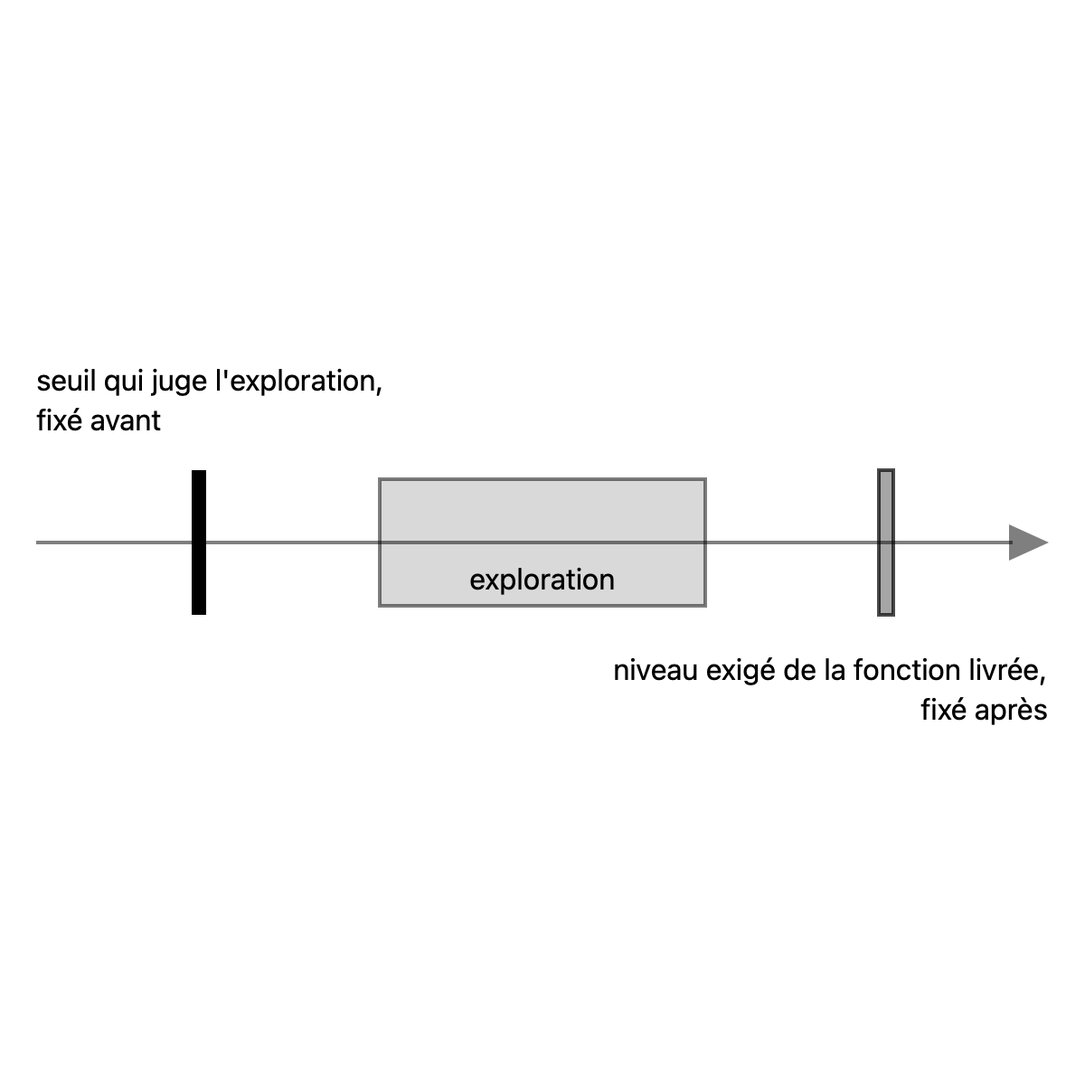
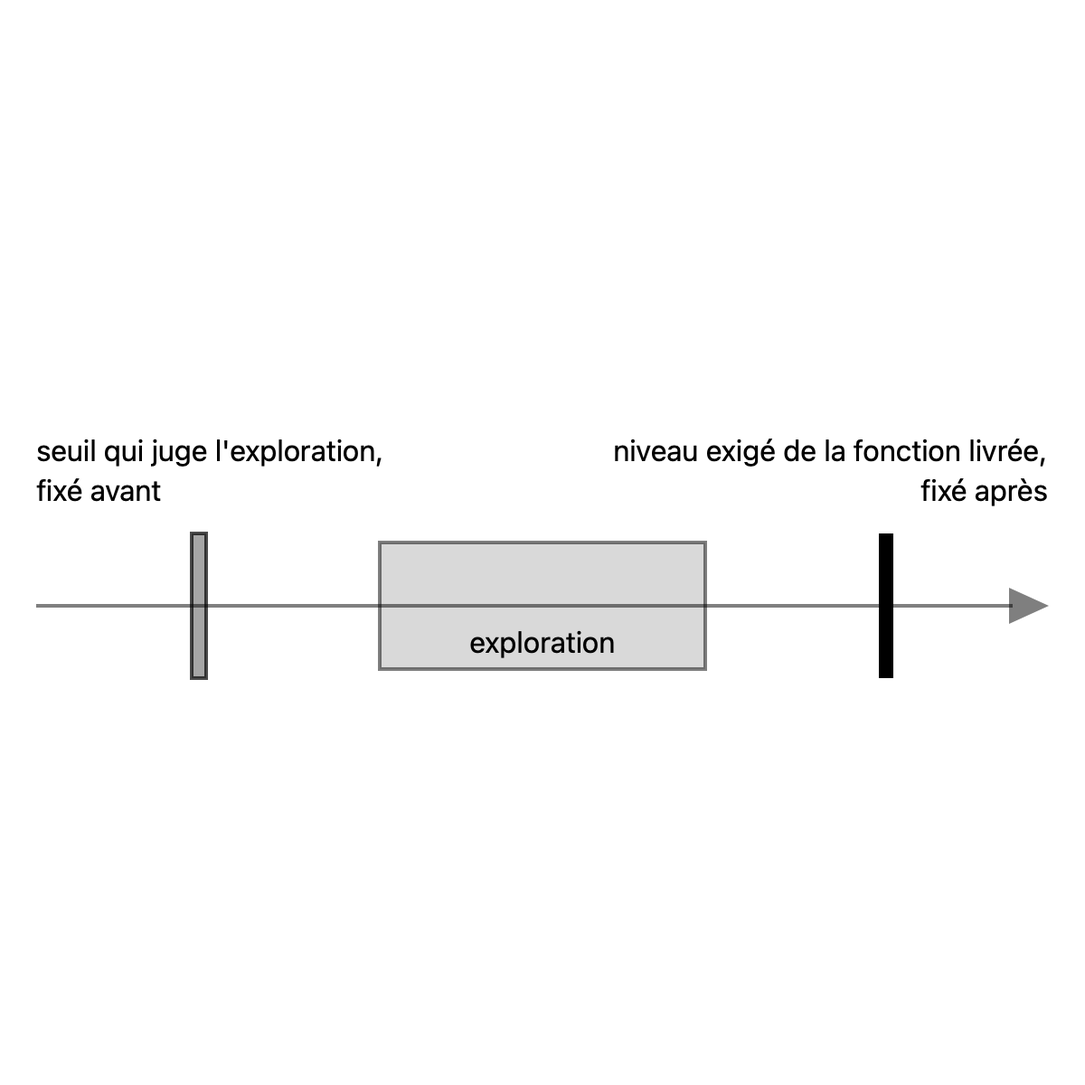
course(course:parcours-po): fix review findings of concept 17

Changed region(s): [[0.0308, 0.3392, 0.9558, 0.6783]]

diff --git a/courses/parcours-po/concepts/17-hypotheses-exploration/sources.md b/courses/parcours-po/concepts/17-hypotheses-exploration/sources.md
@@ -17,13 +17,13 @@ météo non collectée, le seuil « presque vide ») sont inventés : ils n'ont 
 | Le Scrum Guide ne parle ni de spike ni de découverte ; il ne nomme les hypothèses (assumptions) qu'à la rétrospective, pour celles qui ont égaré l'équipe dans sa façon de travailler, pas pour les hypothèses du produit (Consensus et choix d'école) | [S1] | Section Sprint Retrospective : « Assumptions that led them astray are identified and their origins explored » ; « spike » et « discover » absents du texte (texte téléchargé et cherché le 2026-10-23) | consensus |
 | Repérer et valider les hypothèses du produit fait partie du travail du PO, et les approches se comparent par leur coût et la qualité de ce qu'on apprend (Consensus et choix d'école, 17b2) | [S2] | Catégorie 4 « Validating Product Assumptions » : 4.1 « describe how scrum supports validating product assumptions » ; 4.2 « compare at least three approaches to validate product assumptions by their cost and quality of learning » ; 3.1 « how a product owner includes product discovery and validation in their work » | consensus |
 | Hypothèse : ce qu'on tient pour vrai sans l'avoir vérifié (L'essentiel) | `glossary.md` ; `concepts/02-objectif-produit-resultat/sources.md` | Définition d'usage du cours, déjà tracée au concept 2 ; pas une citation | cours |
-| L'objectif produit vu comme une hypothèse, pour Scrum.org : choix d'école (17a, Banque d'exemples) | `concepts/02-objectif-produit-resultat/sources.md` [S5], [S6] | Déjà vérifié au concept 2 (Scrum.org : « Product Goals are hypotheses »), rangé en choix d'école comme au concept 2 | |
+| L'objectif produit vu comme une hypothèse, pour Scrum.org : choix d'école (17a, Banque d'exemples) | `concepts/02-objectif-produit-resultat/sources.md` [S5], [S6] | Déjà vérifié au concept 2 (Scrum.org : « Product Goals are hypotheses »), rangé en choix d'école comme au concept 2 | école |
 | Le lien non établi d'une demande avec l'objectif produit est une hypothèse (Consignes) | `concepts/13-ordonner-backlog/sources.md` ; `concepts/05-user-story/sources.md` | Raisonnement du cours, déjà posé en 5b et 13a ; pas un fait de source | cours |
 | Quatre grands risques chez Cagan : valeur (les clients l'achèteront-ils, les utilisateurs choisiront-ils de s'en servir ?), utilisabilité, faisabilité (les ingénieurs peuvent-ils le construire avec le temps, les compétences et la technologie dont on dispose ?), viabilité (la solution marche-t-elle pour l'entreprise ?) (17a, Consensus et choix d'école) | [S3] | Billet du 4 décembre 2017 : « whether customers will buy it or users will choose to use it » ; « whether users can figure out how to use it » ; « whether our engineers can build what we need with the time, skills and technology we have » ; « whether this solution also works for the various aspects of our business » | école |
 | Cagan parle de product manager, pas de PO, et répartit les risques par rôle : valeur et viabilité au product manager, utilisabilité au product designer, faisabilité au lead engineer (Consensus et choix d'école, 17a) | [S3] | Valeur et viabilité : Product Manager, « overall accountable » ; utilisabilité : Product Designer ; faisabilité : Product Lead Engineer. Le terme « Product Owner » n'apparaît pas | école |
 | Cagan veut qu'on traite tôt les grands risques, avant de construire (17a) | [S3] | « Tackle the big risks early », « especially value risk and business risk » ; « techniques for tackling these early » | école |
 | Le cours retient deux risques, valeur et faisabilité, et range la donnée dans la faisabilité (existe-t-elle, est-elle assez bonne, assez fraîche ?) (17a) | [S3] ; [S10] ; `concepts/12-donnees-produit/sources.md` [S3] | Choix du cours. [S3] ne parle pas de données. Appui : CRISP-DM fait vérifier la qualité des données avant de modéliser (« Is the data complete […]? Is it correct, or does it contain errors […]? Are there missing values in the data? ») [S10] ; fraîcheur (timeliness) : dimension de qualité, déjà vérifiée au concept 12. Ne pas écrire que Cagan inclut la donnée | cours |
-| Pour ranger une supposition, se demander ce qui arrive si elle est fausse : on ne sait pas le construire (faisabilité) ou on le construit pour rien (valeur) ; une même phrase peut cacher les deux (17a, Consignes) | aucune ; [S3] pour les deux risques | Formulation du cours, déduite du rangement valeur et faisabilité ci-dessus ; pas une citation. L'exemple du SMS est un cas inventé hors banque ; la disponibilité par station vient de la plateforme, et le canal (SMS, serveur vocal, appli) dépend de l'équipe appli : `storyline.md`, « Faits fixés » | |
+| Pour ranger une supposition, se demander ce qui arrive si elle est fausse : on ne sait pas le construire (faisabilité) ou on le construit pour rien (valeur) ; une même phrase peut cacher les deux (17a, Consignes) | aucune ; [S3] pour les deux risques | Formulation du cours, déduite du rangement valeur et faisabilité ci-dessus ; pas une citation. L'exemple du SMS est un cas inventé hors banque ; la disponibilité par station vient de la plateforme, et le canal (SMS, serveur vocal, appli) dépend de l'équipe appli : `storyline.md`, « Faits fixés » | cours |
 | Situation 17 : la tendance de la dernière heure suffit-elle (faisabilité), la pluie compte-t-elle (la météo n'est pas collectée), Régis ira-t-il plus tôt (valeur, lien avec l'objectif produit) (17a, Banque d'exemples) | `storyline.md` ; `concepts/09-decoupage-vertical/sources.md` | Faits du fil rouge (inventés) : météo « source envisagée, pas encore collectée » ; « la météo (pluie) pourrait ajuster la prévision des stations à risque : à vérifier (concept 17) ». Le rangement en valeur et faisabilité est l'application du cours | |
 | Spike (exploration bornée) : venu d'XP ; travail limité dans le temps pour répondre à une question ; ne garde que le problème étudié ; on s'attend à le jeter (17b1) | [S4] ; [S5] ; `concepts/07-invest/sources.md` [S4] | [S4] (Wells, © 1999) : « Build the spike to only addresses the problem under examination and ignore all other concerns » ; « Most spikes are not good enough to keep, so expect to throw it away » ; durée : « put a pair of developers on the problem for a week or two ». [S5] (Mountain Goat) : « a concept adapted from Extreme Programming (XP) » ; « a time-boxed research activity that helps teams make better decisions ». Wake : « (time-boxed) "spike" » (déjà vérifié au concept 7) | école |
 | Le spike livre une réponse (de la connaissance), pas une fonction (17b1) | [S5] ; `concepts/09-decoupage-vertical/sources.md` [S5] | [S5] : le spike ne livre pas tout de suite une capacité, l'équipe construit « the knowledge » qui permettra de la livrer ; il fournit une information « technical and functional ». SPIDR : « A spike is a research activity a team undertakes to learn more about some backlog item » (déjà vérifié au concept 9) | école |
@@ -36,22 +36,22 @@ météo non collectée, le seuil « presque vide ») sont inventés : ils n'ont 
 | Explorer à moindre coût : prototype (17b2, Consensus et choix d'école) ; le but est de tester une idée le plus vite et le moins cher possible (17b2, Consensus et choix d'école) | [S8] | Cagan, « Flavors of Prototypes », 23 février 2014 : « come up with the fastest, cheapest way to test out your ideas » ; prototype de faisabilité : « written by engineers in order to address technical risks during product discovery », « Sometimes it's a new algorithm », « It may be throwaway » ; prototype sur données réelles : « we need the prototype to access our real data sources », sans le travail de mise en production (« performance and scalability ») | école |
 | Pour la valeur, une maquette (prototype utilisateur) ne prouve pas qu'on s'en servira : on dit une chose et on en fait une autre ; un prototype sur données réelles, utilisé pour de vrai par de vrais utilisateurs, sert à prouver qu'une idée marche (Consensus et choix d'école, 17b2) | [S8] | Prototype utilisateur : « it's not good for proving anything – like whether or not your product will actually sell » ; « People say all kinds of things and then go do something different ». Prototype sur données réelles : « The main purpose of a live-data prototype is to actually prove something – normally it's to prove whether an idea […] really works » ; « real users will use the live-data prototype for real » (relu le 2026-10-23 pour l'étape de rédaction). La liste envoyée à Régis pendant quelques jours : situation d'exercice, application du cours | école |
 | Un « oui » de l'utilisateur ne vérifie pas la valeur ; on observe ce qu'il fait (17b2, Pièges) | [S8] | Même citation (« People say all kinds of things and then go do something different ») ; la règle « on observe ce qu'il fait » est la reformulation du cours | cours |
-| Le prototype de 17b2 n'est pas le morceau c de 9b : il ne remplit pas la DoD, se jette, et sert à savoir si le morceau c vaut d'être construit (Consensus et choix d'école, 17b2) | [S8] ; `concepts/09-decoupage-vertical/sources.md` | Choix du cours, appuyée sur la distinction de Cagan entre prototype et produit livré ; pas une citation | cours |
+| Le prototype de 17b2 n'est pas le morceau c de 9b : il ne remplit pas la DoD, se jette, et sert à savoir si le morceau c vaut d'être construit (Consensus et choix d'école, 17b2, Banque d'exemples) | [S8] ; `concepts/09-decoupage-vertical/sources.md` | Choix du cours, appuyée sur la distinction de Cagan entre prototype et produit livré ; pas une citation | cours |
 | Analyse d'historique : explorer les données déjà collectées avant de construire (17b2) | [S10] ; `storyline.md` | CRISP-DM : phase de compréhension des données (collecter, décrire, explorer, vérifier la qualité) avant la modélisation ; le processus est itératif (« backtrack to previous tasks »). L'historique d'environ un an : fait F11 du fil rouge, inventé | cours |
 | Découverte continue (Torres) : l'équipe qui construit le produit parle aux clients chaque semaine (contacts hebdomadaires), par petites activités de recherche au service d'un résultat visé ; choix d'école, nommé sans être enseigné (17b2, Consensus et choix d'école) | [S9] (date du livre de Torres, *Continuous Discovery Habits*, mai 2021 : voir « Non vérifié ») | Glossaire de Product Talk (site de Torres, mis à jour le 1er septembre 2026) : « weekly touch points with customers by the team building the product », petites activités de recherche visant un résultat. Date du livre (mai 2021) : non vérifiée sur une source primaire | école |
 | MVP au sens de Ries : la version qui permet de recueillir le plus d'apprentissage validé sur les clients pour le moindre effort ; manière d'apprendre (Consensus et choix d'école, 17b2) | [S11] | Ries, « Minimum Viable Product: a guide », 3 août 2009 : « that version of a new product which allows a team to collect the maximum amount of validated learning about customers with the least effort ». Le cadrage n'avait qu'une source secondaire ; le billet de Ries confirme la définition | école |
 | Une prévision n'est jamais sûre (17c) | [S1] | « In complex environments, what will happen is unknown » ; les pratiques de prévision « do not replace the importance of empiricism ». Que la prévision des stations à risque se trompe parfois : application du cours | consensus |
-| Un critère sur un niveau atteint : la réussite d'une analyse de données se dit en termes techniques, par un niveau de précision prédictive, et le métier garde ses propres critères (17c) | [S10] | CRISP-DM : « Define the criteria for a successful outcome to the project in technical terms, for example, a certain level of predictive accuracy » ; « the data mining success criteria are different than the business success criteria » ; « Identify who assesses the success criteria » | consensus |
+| Un critère sur un niveau atteint : la réussite d'une analyse de données se dit en termes techniques, par un niveau de précision prédictive, et le métier garde ses propres critères (17c) | [S10] | CRISP-DM : « Define the criteria for a successful outcome to the project in technical terms […] for example, a certain level of predictive accuracy » ; « the data mining success criteria are different than the business success criteria » ; « Identify who assesses the success criteria » | consensus |
 | Niveau mesuré sur l'historique : on mesure la qualité d'un modèle sur des données mises de côté (17c) | [S10] | « the dataset should be separated into training and test sets. The model is built on the training set and its quality estimated on the test set ». Mesurer sur l'historique des relevés : application du cours | consensus |
 | Le niveau se fixe après l'exploration qui montre ce qu'on peut atteindre, pas avant ; le choix du seuil sur les résultats mesurés (Google) n'en est qu'un appui, pas un consensus (Consensus et choix d'école, 17c) | [S10] ; [S12] ; [S13] | Pas de source qui le dise en ces termes (voir « Non vérifié »). Appuis : CRISP-DM fixe ses critères au départ mais prévient « Beware of setting unattainable goals », et les critères « may have changed during and/or as a result of data mining » [S10] ; Google choisit le seuil d'un classifieur sur la courbe ROC du modèle, donc après l'avoir mesuré : « The points on a ROC curve closest to (0,1) represent a range of the best-performing thresholds for the given model » [S13] | cours |
 | Le niveau se fixe en pesant le coût d'une fausse alerte et celui d'un cas manqué ; les deux ne pèsent pas pareil (17c) | [S12] ; [S13] ; [S14] | PAIR (Google) : « Weighing the cost of false positives and false negatives is a critical decision that will shape your users' experiences » ; « It is tempting to weigh both equally by default » ; l'exemple de l'alarme incendie [S12]. Google : « If false positives (false alarms) are highly costly, it may make sense to choose a threshold that gives a lower FPR » [S13] ; 0,5 n'est pas un bon seuil « if the cost of one type of wrong classification is greater than the other » [S14]. Camionnette envoyée pour rien, station vide manquée : application du cours au fil rouge | consensus |
 | Le niveau se fait fixer par l'utilisateur concerné (Étienne, Régis) ; le PO le fait fixer, il ne le tranche pas (17c) | [S12] ; [S10] ; `concepts/08-criteres-regles/sources.md` | PAIR : le compromis « should be based on what your users expect » ; « test the balance between precision and recall with your users » ; décision « collaborative » entre UX, produit et ingénierie [S12]. CRISP-DM : identifier qui juge les critères [S10]. La règle non fixée que le PO fait fixer : déjà tracée au concept 8 (8a2). Que ce soit Étienne ou Régis : fil rouge et choix du cours | cours |
 | Deux seuils à ne pas mêler : le seuil qui juge l'exploration (ce qui compte comme « oui »), fixé avant (Torres), que le PO fait dire par l'utilisateur concerné sans le chiffrer ; le niveau exigé de la fonction livrée par un critère d'acceptation, fixé après l'exploration (Consensus et choix d'école, 17b1, 17c, Pièges) | [S6] ; [S7] ; [S10] ; [S13] | Choix du cours, demandée par la tension relevée en « Non vérifié » : Torres fixe le seuil d'un test avant le test [S6], [S7] ; CRISP-DM et Google appuient indirectement le niveau fixé après mesure [S10], [S13]. Aucune source ne fait cette distinction en ces termes. Que l'utilisateur concerné dise ce qui compte comme « oui » : application de la règle du cours (8a2, le PO fait fixer une règle métier), pas un fait de source | cours |
 | Une story qui exige une prévision sûre ne se finit jamais : le critère porte sur un niveau atteint (17c) | [S1] ; [S10] | Raisonnement du cours, appuyé sur « what will happen is unknown » [S1] et le critère de réussite par niveau de précision [S10] | cours |
-| « Prévision » a deux sens dans le cours : la prévision des stations à risque (fonction du produit pour Régis) et la prévision des Developers du glossaire (concept 16c) (Consignes) | `glossary.md` ; `storyline.md` | Note de vocabulaire du cours, pas un fait de source | cours |
-| Le seuil « presque vide » relève de la même logique : l'exploration l'éclaire, le métier le fixe ; le cours n'en donne pas la valeur (17c, Banque d'exemples) | `storyline.md` ; `concepts/08-criteres-regles/sources.md` | Fil rouge : « règle métier à fixer par un seuil (3 vélos cité comme exemple, pas décidé) ». Raisonnement du cours, aucune source externe | |
+| « Prévision » a deux sens dans le cours : la prévision des stations à risque (fonction du produit pour Régis) et la prévision des Developers du glossaire (concept 16c) (Consensus et choix d'école, Pièges, Consignes) | `glossary.md` ; `storyline.md` | Note de vocabulaire du cours, pas un fait de source | cours |
+| Le seuil « presque vide » relève de la même logique : l'exploration l'éclaire, le métier le fixe ; le cours n'en donne pas la valeur (17c, Banque d'exemples) | `storyline.md` ; `concepts/08-criteres-regles/sources.md` | Fil rouge : « règle métier à fixer par un seuil (3 vélos cité comme exemple, pas décidé) ». Raisonnement du cours, aucune source externe | cours |
 | La pluie compte-t-elle ? La météo n'est pas collectée : une exploration sur un historique météo suppose une source qui n'existe pas encore au fil rouge (Banque d'exemples, 17b1) | `storyline.md` | Fait du fil rouge : météo « Source envisagée, pas encore collectée ». Un historique météo serait un besoin de fil rouge, pas un fait fixé par le cours | |
-| Restent non fixés : station vide, heures de pointe, cible et calcul de la mesure de résultat, seuil « presque vide » (Faits du fil rouge utilisés) | `storyline.md` ; T-018g | Faits non fixés du fil rouge ; un résultat d'exploration chiffré se pose en situation d'exercice | |
+| Restent non fixés : station vide, heures de pointe, cible et calcul de la mesure de résultat, seuil « presque vide » (Faits du fil rouge utilisés) | `storyline.md` | Faits non fixés du fil rouge ; un résultat d'exploration chiffré se pose en situation d'exercice | |
 
 ## Références
 
@@ -59,14 +59,14 @@ météo non collectée, le seuil « presque vide ») sont inventés : ils n'ont 
 |---|---|---|---|---|
 | S1 | Schwaber, Sutherland, *The Scrum Guide*, novembre 2020 | https://scrumguides.org/scrum-guide.html | primaire | 2026-10-23 (texte téléchargé et cherché) |
 | S2 | Scrum Alliance, *CSPO Learning Objectives*, janvier 2022 (mis en forme 2/2024) | https://www.scrumalliance.org/media/certifications/los/cspo_learning_objectives_2022.pdf | primaire | 2026-10-23 (PDF téléchargé et cherché) |
-| S3 | Cagan, « The Four Big Risks », SVPG, 4 décembre 2017 | https://www.svpg.com/four-big-risks/ | primaire (site de l'auteur, qui vend formations et conseil) | 2026-10-23 (déjà cité au cadrage T-018a, §8 ; relu) |
+| S3 | Cagan, « The Four Big Risks », SVPG, 4 décembre 2017 | https://www.svpg.com/four-big-risks/ | primaire (site de l'auteur, qui vend formations et conseil) | 2026-10-23 (relu) |
 | S4 | Wells, « Create a Spike Solution », extremeprogramming.org, © 1999 | http://www.extremeprogramming.org/rules/spike.html | primaire (site de règles XP de Don Wells) | 2026-10-23 (déjà cité au concept 7 ; relu en entier) |
 | S5 | Mountain Goat Software, « Agile Spikes Deliver Knowledge So Teams Can Deliver Products », mise à jour le 6 août 2024 (sans signature, date d'origine non affichée) | https://www.mountaingoatsoftware.com/blog/spikes | primaire (site de Cohn, qui vend ses formations) | 2026-10-23 |
 | S6 | Torres, « How to Improve Your Experiment Design (And Build Trust in Your Product Experiments) », Product Talk, 9 août 2017 | https://www.producttalk.org/2017/08/experiment-design/ | primaire (site de l'auteure, qui vend ses cours) | 2026-10-23 |
 | S7 | Product Talk, glossaire, « Line in the Sand », mise à jour le 25 octobre 2025 (sans signature) | https://www.producttalk.org/glossary-discovery-line-in-the-sand/ | primaire (site de Torres), marketing pour ses cours | 2026-10-23 |
 | S8 | Cagan, « Flavors of Prototypes », SVPG, 23 février 2014 | https://www.svpg.com/flavors-of-prototypes/ | primaire (site de l'auteur) | 2026-10-23 |
 | S9 | Product Talk, glossaire, « Continuous Discovery », mise à jour le 1er septembre 2026 (définition attribuée à Torres, *Continuous Discovery Habits*) | https://www.producttalk.org/glossary-discovery-continuous-discovery/ | primaire (site de Torres), marketing pour ses cours | 2026-10-23 |
-| S10 | Chapman, Clinton, Kerber, Khabaza, Reinartz, Shearer, Wirth, *CRISP-DM 1.0: Step-by-step data mining guide*, SPSS, 2000 | https://public.dhe.ibm.com/software/analytics/spss/documentation/modeler/14.2/es/CRISP-DM.pdf | primaire | 2026-10-23 (PDF téléchargé et cherché ; déjà cité au cadrage T-018a, §8) |
+| S10 | Chapman, Clinton, Kerber, Khabaza, Reinartz, Shearer, Wirth, *CRISP-DM 1.0: Step-by-step data mining guide*, SPSS, 2000 | https://public.dhe.ibm.com/software/analytics/spss/documentation/modeler/14.2/es/CRISP-DM.pdf | primaire | 2026-10-23 (PDF téléchargé et cherché) |
 | S11 | Ries, « Minimum Viable Product: a guide », Startup Lessons Learned, 3 août 2009 | http://www.startuplessonslearned.com/2009/08/minimum-viable-product-guide.html | primaire | 2026-10-23 |
 | S12 | People + AI Research (Google), *People + AI Guidebook*, chapitre « User Needs + Defining Success » (sans date ni auteur nommé) | https://pair.withgoogle.com/chapter/user-needs/ | primaire (guide d'un éditeur, pas de vente directe) | 2026-10-23 |
 | S13 | Google for Developers, *Machine Learning Crash Course*, « Classification: ROC and AUC », mise à jour le 11 mai 2026 | https://developers.google.com/machine-learning/crash-course/classification/roc-and-auc | primaire (cours de l'éditeur) | 2026-10-23 |

diff --git a/construction/notes/S1-10-17-report.md b/construction/notes/S1-10-17-report.md
@@ -1,6 +1,6 @@
 # Migration report: concept 17
 
-Workflow `migrate-concept`, course `parcours-po`, concept folder `concepts/17-hypotheses-exploration/`. Paths in the course folder are relative to it; the old files are named from their repository folder (`parcours-po`, `parcours-po-website`).
+Workflow `migrate-concept` (run `wf_b706b066-642`), course `parcours-po`, concept folder `concepts/17-hypotheses-exploration/`. Paths in the course folder are relative to it; the old files are named from their repository folder (`parcours-po`, `parcours-po-website`).
 Old files: `parcours-po/course/concepts/17-hypotheses-exploration.md` (CF), `parcours-po/course/sources/17-hypotheses-exploration.md` (SF), `parcours-po-website/src/content/concepts/fr/17-hypotheses-exploration.mdx` (MDX), `parcours-po-website/src/components/schemas/Schema17.astro` (ASTRO).
 
 ## Summary
@@ -48,16 +48,15 @@ Its sentences, where the inventory sends them (M11):
 | E2 | l'exploration bornée, menée par les Developers, dont l'étendue représente la durée | « les Developers explorent » | subject | none |
 | E3 | la durée de l'exploration, qui borne le coût, fixée avant le début | « durée fixée avant » | context | none |
 | E4 | la réponse, ce que livre l'exploration | « une réponse » | context | none |
-| E5 | la décision si la réponse est oui | « décision si oui » | context | none |
-| E6 | la décision si la réponse est non | « décision si non » | context | none |
+| E5 | la décision, dite d'avance, à laquelle mène la réponse | « décision dite d'avance » | context | none |
 
 Relations:
 - E1 entre dans E2 : la question est posée avant l'exploration, du PO vers les Developers
 - E3 borne E2 : la largeur de E2 est la durée, fixée avant
 - E2 mène à E4 : l'exploration produit une réponse
-- E4 mène à E5 si la réponse est oui, et à E6 si elle est non, dans cet ordre de lecture : E5 puis E6
+- E4 mène à E5
 
-Self-check changes (SPEC.md 7.2): the « rappel » band (« décidé avant : … ») is removed, being a teaching sentence; « pas une fonction » is removed from the answer box and the answer is `muted`, so that the exploration is the only marked element; « si oui : on construit » and « si non : on revoit » become « décision si oui » and « décision si non » (words of the caption and of concept.md).
+Self-check changes (SPEC.md 7.2): the « rappel » band is removed (a teaching sentence); « pas une fonction » is removed from the answer box; the answer and the decision are `muted`, so the exploration is the only marked element; the two branches « si oui » / « si non » are replaced by one box « décision dite d'avance », since « si non » is in neither concept.md nor the caption.
 
 Key of the inventory: none. Key drawn: none.
 
@@ -72,13 +71,15 @@ Key of the inventory: none. Key drawn: none.
 |---|---|---|---|---|
 | E1 | le temps, qui va de l'avant vers l'après de l'exploration | none | context | none |
 | E2 | l'exploration, une période sur le temps, entre les deux seuils | « exploration » | context | none |
-| E3 | le seuil qui juge l'exploration (ce qui compte comme « oui »), placé avant l'exploration | « seuil qui juge l'exploration, », « fixé avant » | subject | none |
-| E4 | le niveau exigé de la fonction livrée, placé après l'exploration, quand elle a montré ce qu'on peut atteindre | « niveau exigé de la fonction livrée, », « fixé après » | contrast | none |
+| E3 | le seuil qui juge l'exploration (ce qui compte comme « oui »), placé avant l'exploration | « seuil qui juge l'exploration, », « fixé avant » | contrast | none |
+| E4 | le niveau exigé de la fonction livrée, placé après l'exploration, quand elle a montré ce qu'on peut atteindre | « niveau exigé de la fonction livrée, », « fixé après » | subject | none |
 
 Relations:
 - Dans l'ordre du temps : E3, puis E2, puis E4 (E3 fixé avant l'exploration, E4 fixé après)
 - E3 et E4 sont deux seuils distincts, à ne pas mêler
 - E1 porte E3, E2 et E4 dans cet ordre
+
+Self-check changes (SPEC.md 7.2): the diagram is declared 17c, whose sentence closes on the level fixed after, so the level (E4) is the subject (`primary`, solid) and the threshold fixed before (E3) the contrast (`secondary`, paler); each label sits next to its bar; the exploration label no longer sits on the axis.
 
 Key of the inventory: none. Key drawn: none.
 
@@ -92,23 +93,23 @@ Renderings in `S1-10-17-report/`, beside this report.
 ## Writing choices
 
 - M9 citation line: none written. The old « Sous-concepts » cites all 7 bank cases by title in « » (« Prévoir les stations à risque : on sait ou on suppose ? », « De quoi dépend la story de Régis ? », « On verra ce qu'Anna trouve », « Régis ira-t-il plus tôt ? », « Le critère à 90 % », « Les chiffres d'Anna », « Presque vide d'après l'historique »), so « Consignes » is the old text verbatim.
-- M9: the lead paragraph of « Banque d'exemples » became « Faits du fil rouge utilisés » with its lead words « Faits du fil rouge utilisés : » dropped; no other lead text, so nothing stays at the top of the bank. « Schéma » copied verbatim (paragraph on diagrams is Schéma only; CF « Pièges » and « Le test rapide » are not in these two files).
+- M9: the lead paragraph of « Banque d'exemples » became « Faits du fil rouge utilisés » with its lead words « Faits du fil rouge utilisés : » dropped; no other lead text, so nothing stays at the top of the bank. « Schéma » rewritten in this PR: the two new drawings, plus the 17a panel and the 17c balance, which have no declared diagram.
 - M10 path rewrite: `course/plan.md`: `plan.md` (intro).
 - M10 path rewrite: `course/glossary.md`: `glossary.md` (row « Hypothèse » and row « Prévision a deux sens »).
 - M10 path rewrite: `course/fil-rouge-velos.md`: `storyline.md` (7 places: source cells and the verification cell of the SMS row).
 - M10 path rewrite: `course/sources/NN-slug.md`: `concepts/NN-slug/sources.md` for 00-scrum, 02-objectif-produit-resultat, 07-invest, 08-criteres-regles, 09-decoupage-vertical, 12-donnees-produit, 13-ordonner-backlog (each in its source cell).
-- M10 path rewrite: `course/concepts/05-user-story.md`: `concepts/05-user-story/concept.md`; `course/concepts/09-decoupage-vertical.md`: `concepts/09-decoupage-vertical/concept.md`.
+- M10 path rewrite: `course/concepts/05-user-story.md`: `concepts/05-user-story/sources.md` (cross-reference rows, in the Source column).
 - M10 pointer dropped in the intro: old text « , les consignes du lot (T-018g) et les promesses des concepts », new text « et les promesses des concepts » (task id, no new path).
 - M10 pointer dropped in « Non vérifié », Découverte continue: « vient d'une source secondaire (cadrage T-018a, §8) ; le livre n'a pas été lu »: « vient d'une source secondaire ; le livre n'a pas été lu ».
 - M10 pointer dropped in « Non vérifié », Origine du terme MVP: « par des sources secondaires (cadrage T-018a, §8), non vérifiée ici »: « par des sources secondaires, non vérifiée ici ».
-- M10 kept as is: `T-018g` in the source cell of the row « Restent non fixés », and « déjà cité au cadrage T-018a, §8 » in the « Références » rows S3 and S10 (source cell / Références stay unchanged). URLs containing « course/ » (Google crash-course) untouched. No old decision number (ADR) in the file, so no decision path.
+- M10 task ids: `T-018g` (row « Restent non fixés ») and « cadrage T-018a, §8 » (Références S3 and S10) removed by the review of the PR; they are internal ids, reader-facing text keeps what they refer to.
 - M10 orphan: none. All references S1 to S14 are cited by a source cell, so no « orphan [Sx] added ».
 - M13 replacement: em-dash in the CRISP-DM quotation of the row « Un critère sur un niveau atteint » (« in technical terms—for example »): « in technical terms, for example » (comma, smallest change). The en-dash in the S8 quotation (« proving anything – like ») is not a banned character and stays. No typographic apostrophe in either file.
 - M10 Nature, from an MDX sources.affirmations item (kind): rows 1-3 consensus; « Hypothèse » cours; « Le lien non établi » cours; Cagan four risks, Cagan PM/roles/early (the MDX item merges these two claims) école; « Le cours retient deux risques » cours; spike origin, spike delivers an answer, time-boxed cost, business-question use, backlog placement école; Torres decide-before école; PO pose la question cours; prototypes école; maquette école; « oui » de l'utilisateur cours; prototype 17b2 not morceau c cours; analyse d'historique cours; découverte continue école; MVP Ries école; niveau atteint, niveau mesuré sur données mises de côté, pesée des deux erreurs consensus; utilisateur concerné cours; niveau fixé après cours; deux seuils cours; story qui exige une prévision sûre cours; deux sens de « prévision » cours; « Restent non fixés » empty (the MDX item has no kind).
 - M10 Nature choice: row « Une exploration s'ordonne au backlog : le facteur apprentissage de Cohn (renvoi 13) » has no MDX item of its own; the Cohn claim is stated in the verification text of the MDX item « Une exploration peut figurer au backlog… », so I took that item's kind: école. Writing choice.
 - M10 Nature choice: row « Une prévision n'est jamais sûre (17c) » has no MDX item stating exactly it; I took consensus (the MDX item on empirisme / « ce qui va arriver est inconnu », and the matching stances consensus item, agree). Writing choice.
 - M10 Nature left empty (no MDX item states the claim, and no stances item matches it): « L'objectif produit vu comme une hypothèse, pour Scrum.org » (no Scrum.org item in the MDX ecoles); « Pour ranger une supposition, se demander ce qui arrive si elle est fausse »; « Situation 17 : la tendance... » (bank); « Le seuil « presque vide » relève de la même logique »; « La pluie compte-t-elle ? La météo n'est pas collectée ». Writing choice for each.
-- M10 header and section names: « Affirmations » header set to « Affirmation (section de `concept.md` ou de `teaching.md`) | Source | Ce qui a été vérifié | Nature »; the section names of the claim cells (« Sous-concepts », « Consensus et choix d'école ») were left unchanged in the cell text, as the rule says only the row's section name « Sous-concepts » becomes « Consignes ». Not applied: rows 31 (« 17a, Sous-concepts ») and 56 (« Sous-concepts ») still read « Sous-concepts » in their parenthesis; M10 says to rename it to « Consignes », so this is a miss to fix on review if the check flags it.
+- M10 header and section names: « Affirmations » header set to « Affirmation (section de `concept.md` ou de `teaching.md`) | Source | Ce qui a été vérifié | Nature »; « Sous-concepts » in the section names is now « Consignes » (fixed in this PR).
 - M1 objective merge: not applicable to these two files (course.yaml and concept.md carry it).
 - M1: Objectif is the course.yaml objective verbatim, capital S, final period; no clause of CF or MDX objectif is left out, so nothing to report
 - M3: school item 'exploration bornée' gets CF's '(concept 7)' after the business-question clause (CF precise reference carried)
@@ -127,11 +128,11 @@ Renderings in `S1-10-17-report/`, beside this report.
 - M8: quick test question is CF's, without its enclosing « » (the blockquote marks the quotation; my choice); the paragraph is the Reflexe note 'Formulation du cours, sans équivalent dans les sources.' followed by CF's sentence 'Si l'apprenant n'en trouve aucune...'
 - M13: no banned character present, no replacement; no typographic apostrophe found; no em-dash or arrow replaced
 - Frontmatter: item key 'auteur' written 'author', 'texte' 'text'; diagrams entries verbatim, order of body; 'ecoles.voisines' written as neighbors
-- Self-check of the PR (SPEC.md 7.2, 4.4): captions reduced to one sentence of one idea; exploration-bornee.svg lost its recap band and its second marked box; its sub-concept is 17b1 (it draws only 17b1); `sources.md` first columns now name sections of `concept.md` or `teaching.md` (« Sous-concepts » is « Consignes », « banque » is « Banque d'exemples », « renvoi … » and « Choix du cours » are replaced), cross-reference rows point to `sources.md` paths; the « Schéma » section of `teaching.md` describes the two new drawings. The misses of the M10 note on « Sous-concepts » are fixed.
+- Corrections of the PR (SPEC.md 7.2 self-check, then the fresh review): captions of one sentence and one idea; `exploration-bornee.svg` reduced to the exploration as subject, declared 17b1; `deux-seuils.svg` declared 17c with the level fixed after as subject; `sources.md` section names, `sources.md` paths for cross-references, empty Nature cells filled where the row's text names it, the CRISP-DM cut marked « […] »; « Pièges » items 2, 3 and 8 reworded; « Schéma » of `teaching.md` keeps the 17a panel and the balance of 17c.
 
 ## Checks
 
-`mise exec -- specs/linear-course/checks/check-course courses/parcours-po --only course-yaml,concept-folder,conventions,svg-contract,sources,glossary-order,typography --concept 17`
+`mise exec -- node specs/linear-course/checks/check-course courses/parcours-po --concept 17`, run after the corrections of the PR:
 
 ```
 course-yaml: ok
@@ -139,6 +140,9 @@ concept-folder: ok
 conventions: ok
 svg-contract: ok
 sources: ok
+course-files: ok
 glossary-order: ok
+domain-first-sentence: ok
 typography: ok
+language-pack-keys: ok
 ```

diff --git a/courses/parcours-po/concepts/17-hypotheses-exploration/concept.md b/courses/parcours-po/concepts/17-hypotheses-exploration/concept.md
@@ -115,13 +115,13 @@ Deux seuils sont donc à ne pas mêler : celui qui juge l'exploration, fixé ava
 ## Pièges
 
 - **Prendre une phrase répétée pour un fait** (« tout le monde sait que… ») : demander qui l'a vérifié.
-- **Ne voir que la faisabilité** : vérifier que le modèle marche ne dit pas que l'utilisateur s'en servira. Un profil data vérifie volontiers que le modèle marche, plus rarement que l'utilisateur s'en servira.
-- **Trancher une hypothèse soi-même**, ou mener l'exploration à la place des Developers : le PO pose la question, il ne fixe pas seul la durée. Le PO la fait vérifier ; il ne dit pas si elle est vraie. Les Developers explorent et disent le temps qu'il leur faut.
+- **Ne voir que la faisabilité** : un profil data vérifie volontiers que le modèle marche, plus rarement que l'utilisateur s'en servira.
+- **Trancher une hypothèse soi-même**, ou mener l'exploration à la place des Developers : le PO pose la question, il ne fixe pas seul la durée. Le PO fait vérifier une hypothèse ; il ne dit pas si elle est vraie. Les Developers explorent et disent le temps qu'il leur faut.
 - **Explorer sans question ni décision**, ou attendre une fonction d'une exploration : elle livre une réponse ; la fonction est une autre story. Sans question ni décision, elle n'a pas de fin, et rien ne change à son terme.
 - **Croire qu'un « oui » de l'utilisateur vérifie la valeur** : on observe ce qu'il fait.
 - **Fixer le niveau d'une prévision avant l'exploration**, ou le fixer soi-même : il se fixe après, par l'utilisateur concerné.
 - **Exiger qu'une prévision ne se trompe pas**, ou ne compter qu'une sorte d'erreur : il faut les fausses alertes et les cas manqués.
-- **Croire que l'exploration fixe une règle**, ou mêler le seuil qui juge l'exploration et le niveau exigé de la fonction : elle l'éclaire, l'utilisateur concerné la fixe. Ce qui compte comme « oui » pour l'exploration, dit avant par l'utilisateur concerné (17b1) ; le niveau exigé de la fonction, fixé après (17c). Le PO ne chiffre ni l'un ni l'autre.
+- **Croire qu'une donnée ou une exploration fixe une règle métier**, ou mêler le seuil qui juge l'exploration et le niveau exigé de la fonction : elle l'éclaire, l'utilisateur concerné la fixe. Ce qui compte comme « oui » pour l'exploration est dit avant par l'utilisateur concerné (17b1), le niveau exigé de la fonction est fixé après (17c). Le PO ne chiffre ni l'un ni l'autre.
 - **Confondre la prévision des stations à risque** (concept 9) **avec la prévision des Developers** (concept 16c).
 
 ## Le test rapide

diff --git a/courses/parcours-po/concepts/17-hypotheses-exploration/teaching.md b/courses/parcours-po/concepts/17-hypotheses-exploration/teaching.md
@@ -283,13 +283,19 @@ l'apprenant de fixer un seuil ou un niveau, ni de dire si une hypothèse est vra
 
 ## Schéma
 
-Deux schémas, un par idée.
-1. **Une exploration bornée (17b1)** : à gauche, « le PO pose la question » avec une flèche vers
-   une grande boîte, « les Developers explorent », la plus marquée du dessin. Sous la boîte, une
-   accolade de la même largeur et « durée fixée avant ». À droite de la boîte, une flèche vers
-   « une réponse », puis une bifurcation vers deux boîtes, « décision si oui » et « décision si
-   non ». Seule la boîte d'exploration est marquée ; le reste est en retrait.
-2. **Deux seuils dans l'ordre du temps (17c)** : une flèche du temps, avec au milieu un rectangle
-   « exploration ». Avant lui, une barre marquée et son étiquette « seuil qui juge l'exploration,
-   fixé avant ». Après lui, une barre plus pâle et son étiquette « niveau exigé de la fonction
-   livrée, fixé après ». Le seuil fixé avant est le plus marqué.
+**17a, savoir ou supposer (aucun schéma déclaré).** Deux colonnes, « on sait » et « on suppose » ;
+la colonne de droite coupée en deux bacs, « valeur » (l'utilisateur s'en servira-t-il ? cela sert-il
+l'objectif produit ?) et « faisabilité » (peut-on le construire ? avec quelles données ?). Des
+affirmations posées en cartes (cas inventé : « la livraison arrive toujours le mardi »). Légende :
+« qui l'a vérifié ? ».
+**17b1, l'exploration bornée (exploration-bornee.svg).** À gauche, « le PO pose la question » avec
+une flèche vers une grande boîte, « les Developers explorent », seule marquée du dessin. Sous la
+boîte, une accolade de la même largeur, « durée fixée avant ». À droite, une flèche vers « une
+réponse », puis vers « décision dite d'avance ». Légende : « une réponse, pas une fonction ».
+**17c, accepter un résultat incertain (deux-seuils.svg, puis une balance sans schéma déclaré).**
+Une flèche du temps, avec au milieu un rectangle « exploration ». Avant lui, une barre pâle,
+« seuil qui juge l'exploration, fixé avant ». Après lui, une barre pleine, la plus marquée,
+« niveau exigé de la fonction livrée, fixé après ». Puis, pour les deux erreurs : une balance ;
+sur un plateau, « fausse alerte », sur l'autre, « cas manqué » ; sous la balance, l'utilisateur
+concerné qui fixe le niveau. Légende : « l'exploration montre ce qu'on peut atteindre,
+l'utilisateur fixe ce qu'il exige ».
